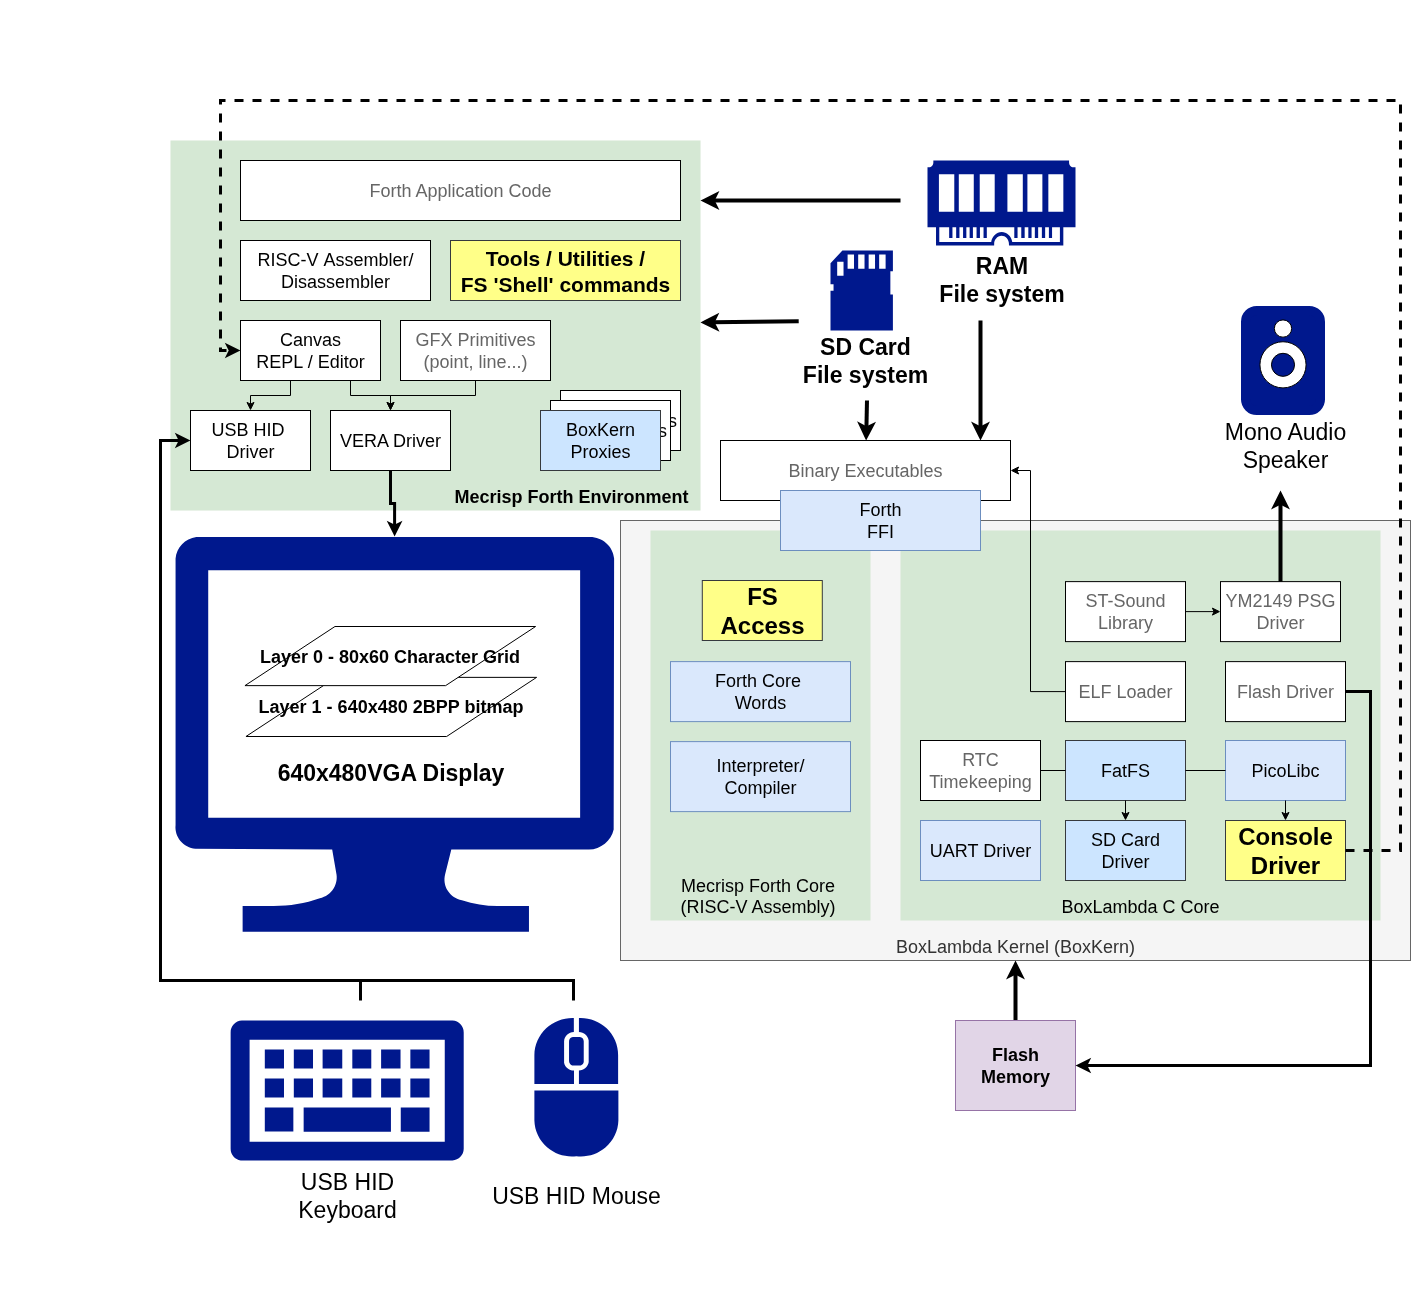
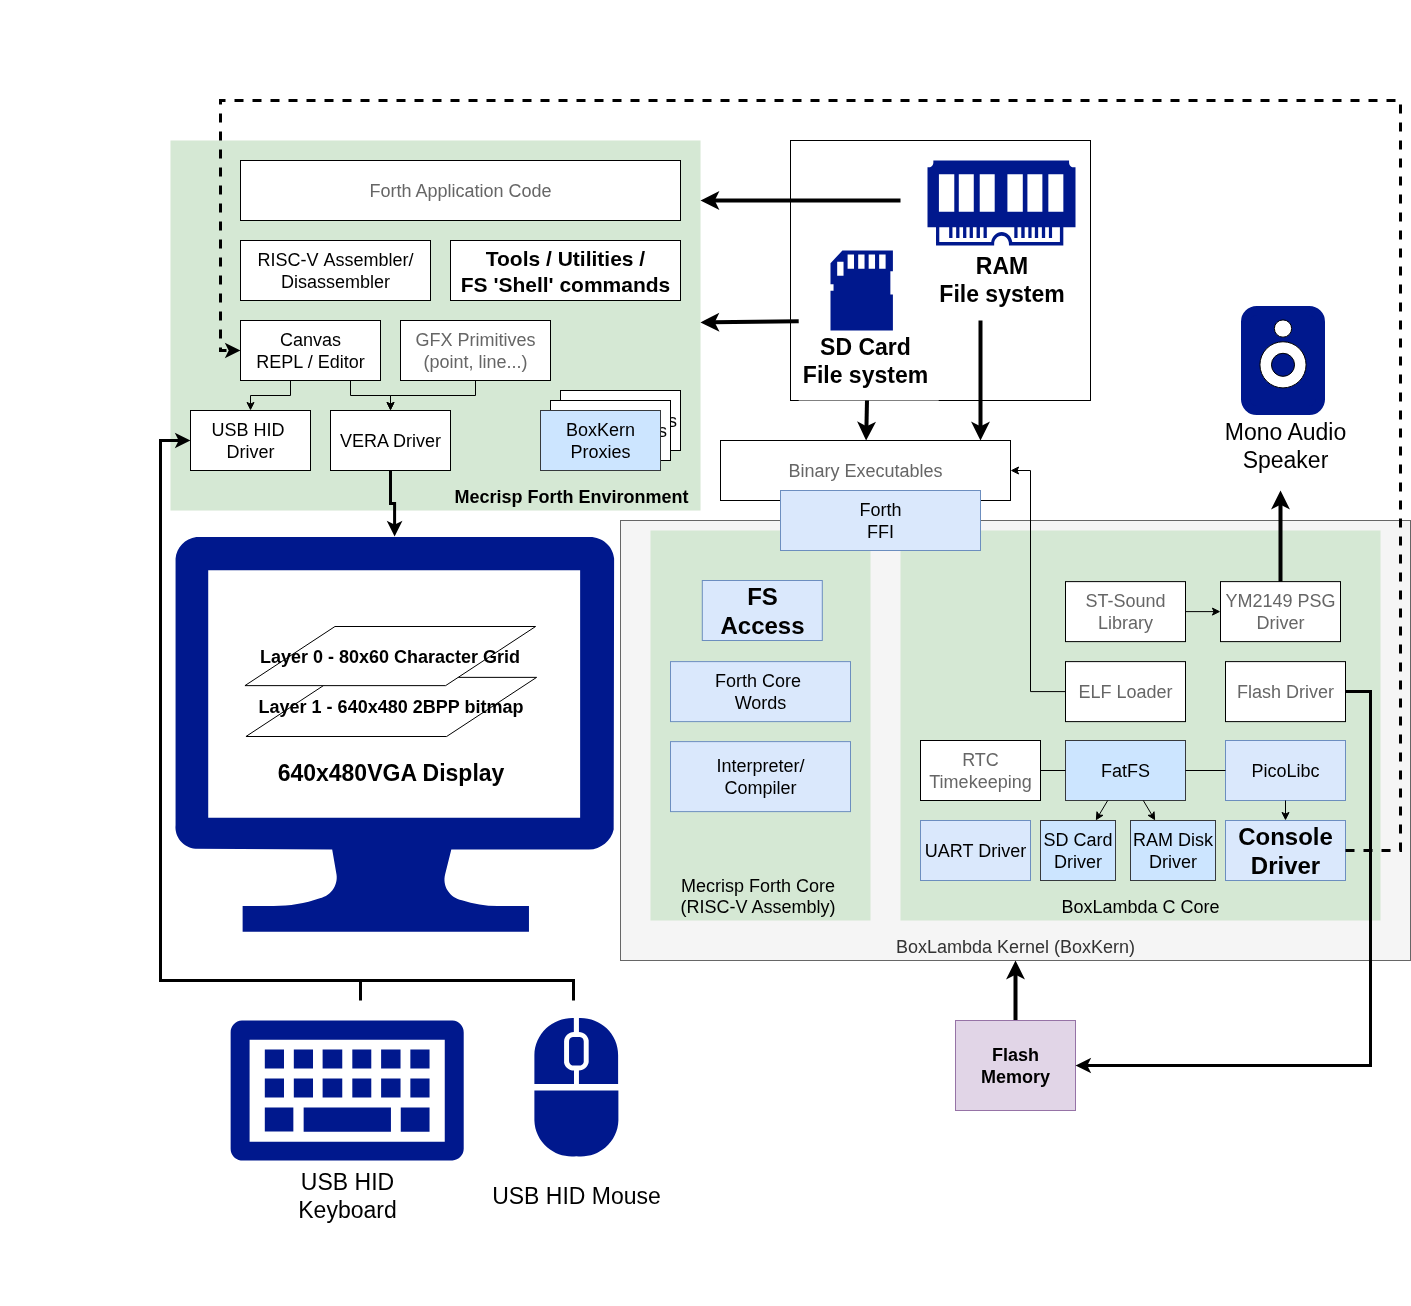
releasing v0.4.1

Changed region(s): [[0.6549, 0.6126, 0.9667, 0.6738], [0.3118, 0.1838, 0.4989, 0.245], [0.4989, 0.4288, 0.5925, 0.49]]

diff --git a/site_docs/registers/sdram.md b/site_docs/registers/sdram.md
@@ -4,35 +4,35 @@
 
 | Register                                                      | Address                                     |
 |---------------------------------------------------------------|---------------------------------------------|
-| [SDRAM_DFII_CONTROL](#sdram-dfii-control)                     | [0x00000800](#sdram-dfii-control)           |
-| [SDRAM_DFII_PI0_COMMAND](#sdram-dfii-pi0-command)             | [0x00000804](#sdram-dfii-pi0-command)       |
-| [SDRAM_DFII_PI0_COMMAND_ISSUE](#sdram-dfii-pi0-command-issue) | [0x00000808](#sdram-dfii-pi0-command-issue) |
-| [SDRAM_DFII_PI0_ADDRESS](#sdram-dfii-pi0-address)             | [0x0000080c](#sdram-dfii-pi0-address)       |
-| [SDRAM_DFII_PI0_BADDRESS](#sdram-dfii-pi0-baddress)           | [0x00000810](#sdram-dfii-pi0-baddress)      |
-| [SDRAM_DFII_PI0_WRDATA](#sdram-dfii-pi0-wrdata)               | [0x00000814](#sdram-dfii-pi0-wrdata)        |
-| [SDRAM_DFII_PI0_RDDATA](#sdram-dfii-pi0-rddata)               | [0x00000818](#sdram-dfii-pi0-rddata)        |
-| [SDRAM_DFII_PI1_COMMAND](#sdram-dfii-pi1-command)             | [0x0000081c](#sdram-dfii-pi1-command)       |
-| [SDRAM_DFII_PI1_COMMAND_ISSUE](#sdram-dfii-pi1-command-issue) | [0x00000820](#sdram-dfii-pi1-command-issue) |
-| [SDRAM_DFII_PI1_ADDRESS](#sdram-dfii-pi1-address)             | [0x00000824](#sdram-dfii-pi1-address)       |
-| [SDRAM_DFII_PI1_BADDRESS](#sdram-dfii-pi1-baddress)           | [0x00000828](#sdram-dfii-pi1-baddress)      |
-| [SDRAM_DFII_PI1_WRDATA](#sdram-dfii-pi1-wrdata)               | [0x0000082c](#sdram-dfii-pi1-wrdata)        |
-| [SDRAM_DFII_PI1_RDDATA](#sdram-dfii-pi1-rddata)               | [0x00000830](#sdram-dfii-pi1-rddata)        |
-| [SDRAM_DFII_PI2_COMMAND](#sdram-dfii-pi2-command)             | [0x00000834](#sdram-dfii-pi2-command)       |
-| [SDRAM_DFII_PI2_COMMAND_ISSUE](#sdram-dfii-pi2-command-issue) | [0x00000838](#sdram-dfii-pi2-command-issue) |
-| [SDRAM_DFII_PI2_ADDRESS](#sdram-dfii-pi2-address)             | [0x0000083c](#sdram-dfii-pi2-address)       |
-| [SDRAM_DFII_PI2_BADDRESS](#sdram-dfii-pi2-baddress)           | [0x00000840](#sdram-dfii-pi2-baddress)      |
-| [SDRAM_DFII_PI2_WRDATA](#sdram-dfii-pi2-wrdata)               | [0x00000844](#sdram-dfii-pi2-wrdata)        |
-| [SDRAM_DFII_PI2_RDDATA](#sdram-dfii-pi2-rddata)               | [0x00000848](#sdram-dfii-pi2-rddata)        |
-| [SDRAM_DFII_PI3_COMMAND](#sdram-dfii-pi3-command)             | [0x0000084c](#sdram-dfii-pi3-command)       |
-| [SDRAM_DFII_PI3_COMMAND_ISSUE](#sdram-dfii-pi3-command-issue) | [0x00000850](#sdram-dfii-pi3-command-issue) |
-| [SDRAM_DFII_PI3_ADDRESS](#sdram-dfii-pi3-address)             | [0x00000854](#sdram-dfii-pi3-address)       |
-| [SDRAM_DFII_PI3_BADDRESS](#sdram-dfii-pi3-baddress)           | [0x00000858](#sdram-dfii-pi3-baddress)      |
-| [SDRAM_DFII_PI3_WRDATA](#sdram-dfii-pi3-wrdata)               | [0x0000085c](#sdram-dfii-pi3-wrdata)        |
-| [SDRAM_DFII_PI3_RDDATA](#sdram-dfii-pi3-rddata)               | [0x00000860](#sdram-dfii-pi3-rddata)        |
+| [SDRAM_DFII_CONTROL](#sdram-dfii-control)                     | [0x00001000](#sdram-dfii-control)           |
+| [SDRAM_DFII_PI0_COMMAND](#sdram-dfii-pi0-command)             | [0x00001004](#sdram-dfii-pi0-command)       |
+| [SDRAM_DFII_PI0_COMMAND_ISSUE](#sdram-dfii-pi0-command-issue) | [0x00001008](#sdram-dfii-pi0-command-issue) |
+| [SDRAM_DFII_PI0_ADDRESS](#sdram-dfii-pi0-address)             | [0x0000100c](#sdram-dfii-pi0-address)       |
+| [SDRAM_DFII_PI0_BADDRESS](#sdram-dfii-pi0-baddress)           | [0x00001010](#sdram-dfii-pi0-baddress)      |
+| [SDRAM_DFII_PI0_WRDATA](#sdram-dfii-pi0-wrdata)               | [0x00001014](#sdram-dfii-pi0-wrdata)        |
+| [SDRAM_DFII_PI0_RDDATA](#sdram-dfii-pi0-rddata)               | [0x00001018](#sdram-dfii-pi0-rddata)        |
+| [SDRAM_DFII_PI1_COMMAND](#sdram-dfii-pi1-command)             | [0x0000101c](#sdram-dfii-pi1-command)       |
+| [SDRAM_DFII_PI1_COMMAND_ISSUE](#sdram-dfii-pi1-command-issue) | [0x00001020](#sdram-dfii-pi1-command-issue) |
+| [SDRAM_DFII_PI1_ADDRESS](#sdram-dfii-pi1-address)             | [0x00001024](#sdram-dfii-pi1-address)       |
+| [SDRAM_DFII_PI1_BADDRESS](#sdram-dfii-pi1-baddress)           | [0x00001028](#sdram-dfii-pi1-baddress)      |
+| [SDRAM_DFII_PI1_WRDATA](#sdram-dfii-pi1-wrdata)               | [0x0000102c](#sdram-dfii-pi1-wrdata)        |
+| [SDRAM_DFII_PI1_RDDATA](#sdram-dfii-pi1-rddata)               | [0x00001030](#sdram-dfii-pi1-rddata)        |
+| [SDRAM_DFII_PI2_COMMAND](#sdram-dfii-pi2-command)             | [0x00001034](#sdram-dfii-pi2-command)       |
+| [SDRAM_DFII_PI2_COMMAND_ISSUE](#sdram-dfii-pi2-command-issue) | [0x00001038](#sdram-dfii-pi2-command-issue) |
+| [SDRAM_DFII_PI2_ADDRESS](#sdram-dfii-pi2-address)             | [0x0000103c](#sdram-dfii-pi2-address)       |
+| [SDRAM_DFII_PI2_BADDRESS](#sdram-dfii-pi2-baddress)           | [0x00001040](#sdram-dfii-pi2-baddress)      |
+| [SDRAM_DFII_PI2_WRDATA](#sdram-dfii-pi2-wrdata)               | [0x00001044](#sdram-dfii-pi2-wrdata)        |
+| [SDRAM_DFII_PI2_RDDATA](#sdram-dfii-pi2-rddata)               | [0x00001048](#sdram-dfii-pi2-rddata)        |
+| [SDRAM_DFII_PI3_COMMAND](#sdram-dfii-pi3-command)             | [0x0000104c](#sdram-dfii-pi3-command)       |
+| [SDRAM_DFII_PI3_COMMAND_ISSUE](#sdram-dfii-pi3-command-issue) | [0x00001050](#sdram-dfii-pi3-command-issue) |
+| [SDRAM_DFII_PI3_ADDRESS](#sdram-dfii-pi3-address)             | [0x00001054](#sdram-dfii-pi3-address)       |
+| [SDRAM_DFII_PI3_BADDRESS](#sdram-dfii-pi3-baddress)           | [0x00001058](#sdram-dfii-pi3-baddress)      |
+| [SDRAM_DFII_PI3_WRDATA](#sdram-dfii-pi3-wrdata)               | [0x0000105c](#sdram-dfii-pi3-wrdata)        |
+| [SDRAM_DFII_PI3_RDDATA](#sdram-dfii-pi3-rddata)               | [0x00001060](#sdram-dfii-pi3-rddata)        |
 
 ### SDRAM_DFII_CONTROL
 
-Address: 0x00000800 + 0x0 = 0x00000800
+Address: 0x00001000 + 0x0 = 0x00001000
 
 > Control DFI signals common to all phases
 
@@ -45,7 +45,7 @@ Address: 0x00000800 + 0x0 = 0x00000800
 
 ### SDRAM_DFII_PI0_COMMAND
 
-Address: 0x00000800 + 0x4 = 0x00000804
+Address: 0x00001000 + 0x4 = 0x00001004
 
 > Control DFI signals on a single phase
 
@@ -62,35 +62,35 @@ Address: 0x00000800 + 0x4 = 0x00000804
 
 ### SDRAM_DFII_PI0_COMMAND_ISSUE
 
-Address: 0x00000800 + 0x8 = 0x00000808
+Address: 0x00001000 + 0x8 = 0x00001008
 
 ### SDRAM_DFII_PI0_ADDRESS
 
-Address: 0x00000800 + 0xc = 0x0000080c
+Address: 0x00001000 + 0xc = 0x0000100c
 
 > DFI address bus
 
 ### SDRAM_DFII_PI0_BADDRESS
 
-Address: 0x00000800 + 0x10 = 0x00000810
+Address: 0x00001000 + 0x10 = 0x00001010
 
 > DFI bank address bus
 
 ### SDRAM_DFII_PI0_WRDATA
 
-Address: 0x00000800 + 0x14 = 0x00000814
+Address: 0x00001000 + 0x14 = 0x00001014
 
 > DFI write data bus
 
 ### SDRAM_DFII_PI0_RDDATA
 
-Address: 0x00000800 + 0x18 = 0x00000818
+Address: 0x00001000 + 0x18 = 0x00001018
 
 > DFI read data bus
 
 ### SDRAM_DFII_PI1_COMMAND
 
-Address: 0x00000800 + 0x1c = 0x0000081c
+Address: 0x00001000 + 0x1c = 0x0000101c
 
 > Control DFI signals on a single phase
 
@@ -107,35 +107,35 @@ Address: 0x00000800 + 0x1c = 0x0000081c
 
 ### SDRAM_DFII_PI1_COMMAND_ISSUE
 
-Address: 0x00000800 + 0x20 = 0x00000820
+Address: 0x00001000 + 0x20 = 0x00001020
 
 ### SDRAM_DFII_PI1_ADDRESS
 
-Address: 0x00000800 + 0x24 = 0x00000824
+Address: 0x00001000 + 0x24 = 0x00001024
 
 > DFI address bus
 
 ### SDRAM_DFII_PI1_BADDRESS
 
-Address: 0x00000800 + 0x28 = 0x00000828
+Address: 0x00001000 + 0x28 = 0x00001028
 
 > DFI bank address bus
 
 ### SDRAM_DFII_PI1_WRDATA
 
-Address: 0x00000800 + 0x2c = 0x0000082c
+Address: 0x00001000 + 0x2c = 0x0000102c
 
 > DFI write data bus
 
 ### SDRAM_DFII_PI1_RDDATA
 
-Address: 0x00000800 + 0x30 = 0x00000830
+Address: 0x00001000 + 0x30 = 0x00001030
 
 > DFI read data bus
 
 ### SDRAM_DFII_PI2_COMMAND
 
-Address: 0x00000800 + 0x34 = 0x00000834
+Address: 0x00001000 + 0x34 = 0x00001034
 
 > Control DFI signals on a single phase
 
@@ -152,35 +152,35 @@ Address: 0x00000800 + 0x34 = 0x00000834
 
 ### SDRAM_DFII_PI2_COMMAND_ISSUE
 
-Address: 0x00000800 + 0x38 = 0x00000838
+Address: 0x00001000 + 0x38 = 0x00001038
 
 ### SDRAM_DFII_PI2_ADDRESS
 
-Address: 0x00000800 + 0x3c = 0x0000083c
+Address: 0x00001000 + 0x3c = 0x0000103c
 
 > DFI address bus
 
 ### SDRAM_DFII_PI2_BADDRESS
 
-Address: 0x00000800 + 0x40 = 0x00000840
+Address: 0x00001000 + 0x40 = 0x00001040
 
 > DFI bank address bus
 
 ### SDRAM_DFII_PI2_WRDATA
 
-Address: 0x00000800 + 0x44 = 0x00000844
+Address: 0x00001000 + 0x44 = 0x00001044
 
 > DFI write data bus
 
 ### SDRAM_DFII_PI2_RDDATA
 
-Address: 0x00000800 + 0x48 = 0x00000848
+Address: 0x00001000 + 0x48 = 0x00001048
 
 > DFI read data bus
 
 ### SDRAM_DFII_PI3_COMMAND
 
-Address: 0x00000800 + 0x4c = 0x0000084c
+Address: 0x00001000 + 0x4c = 0x0000104c
 
 > Control DFI signals on a single phase
 
@@ -197,28 +197,28 @@ Address: 0x00000800 + 0x4c = 0x0000084c
 
 ### SDRAM_DFII_PI3_COMMAND_ISSUE
 
-Address: 0x00000800 + 0x50 = 0x00000850
+Address: 0x00001000 + 0x50 = 0x00001050
 
 ### SDRAM_DFII_PI3_ADDRESS
 
-Address: 0x00000800 + 0x54 = 0x00000854
+Address: 0x00001000 + 0x54 = 0x00001054
 
 > DFI address bus
 
 ### SDRAM_DFII_PI3_BADDRESS
 
-Address: 0x00000800 + 0x58 = 0x00000858
+Address: 0x00001000 + 0x58 = 0x00001058
 
 > DFI bank address bus
 
 ### SDRAM_DFII_PI3_WRDATA
 
-Address: 0x00000800 + 0x5c = 0x0000085c
+Address: 0x00001000 + 0x5c = 0x0000105c
 
 > DFI write data bus
 
 ### SDRAM_DFII_PI3_RDDATA
 
-Address: 0x00000800 + 0x60 = 0x00000860
+Address: 0x00001000 + 0x60 = 0x00001060
 
 > DFI read data bus

diff --git a/site_docs/misc/blog.md b/site_docs/misc/blog.md
@@ -6,37 +6,22 @@ Ruby and Bundler are required to build the BoxLambda blog website. Install them 
 sudo apt-get install rubygems ruby-bundler
 ```
 
-Check out the `gh-pages` branch:
-```
-git checkout gh-pages
-```
-
-Source the `boxlambda_setup.sh` script to ensure that the gems needed to build Jekyll are installed:
-
-```
-source boxlambda_doc_env_setup.sh
-```
-
 Build the blog by executing the following command:
 
 ```
-make jekyll
+make_blog.sh
 ```
 
 Point your browser to [http://127.0.0.1:4000/boxlambda/](http://127.0.0.1:4000/boxlambda/) to see the Jekyll Blog website.
 
-When you're done, deactivate the documentation environment by running:
-
-```bash
-deactivate
-```
-
 ## Blog Release Protocol (Note to Self)
 
 0. [Release code and documentation](git-workflow.md#creating-a-new-release-note-to-self).
-1. Write draft in `boxlambda-gh-pages-wip` branch. Use labeled links to code and documentation.
-2. Check spelling and grammar.
-3. Move draft to `_posts`.
-4. Check for broken links using `lychee -i *.md` in the `_posts` directory.
-5. Merge to `gh-pages` and push.
+1. Write draft in `develop` branch, `jekyll/_drafts` directory. Use labeled links to code and documentation.
+2. Test site using `make_blog`.
+3. Check spelling and grammar.
+4. Move draft to `jekyll/_posts` and add date to filename.
+5. Check for broken links using `lychee -i *.md` in the `jekyll/_posts` directory.
+6. Ensure all changes in current branch are committed.
+7. Release by executing `export_blog.sh vX.Y.Z`.
 

diff --git a/CHANGELOG.md b/CHANGELOG.md
@@ -17,11 +17,10 @@ The format is based on [Keep a Changelog](https://keepachangelog.com/en/1.1.0/).
 
 ### Changed
 
-- Documentation: Updated diagrams used in README.md.
 - Generating GitHub `README.md`, ReadtheDocs `index.md` and Jekyll `about.md` from `README.md.j2` Jinja2 template.
 - Updated release protocol.
-- Moved jekyll site from `gh-pages/boxlambda-gh-pages-wip` to `master/develop` branch, `jekyll/` directory.
-- Minor updates to documentation diagrams.
+- Moved jekyll site from `gh-pages/boxlambda-gh-pages-wip` to `master/develop` branch, `blog/` directory.
+- Documentation: Minor updates to diagrams.
 
 ### Removed
 

diff --git a/site_docs/full-index.md b/site_docs/full-index.md
@@ -107,12 +107,12 @@ Complete structured overview of all documentation pages.
     - [Memory Layout](software/boxlambda-os/mem-layout.md)
     - [OS Top-Level and Boot Sequence](software/boxlambda-os/top-level-and-boot-seq.md)
     - [User Interface](software/boxlambda-os/ui.md)
-    - [Filesystem](software/boxlambda-os/filesystem.md)
+    - [File System](software/boxlambda-os/file-system.md)
     - **Forth**
       - [The Mecrisp Forth Core](software/boxlambda-os/forth/core.md)
       - [The Forth-C FFI](software/boxlambda-os/forth/c-ffi.md)
       - [Stack Notation](software/boxlambda-os/forth/stack-notation.md)
-      - [Forth Word List](software/boxlambda-os/forth/words.md)
+      - [Word List](software/boxlambda-os/forth/words.md)
       - [Interrupt Handling](software/boxlambda-os/forth/irqs.md)
       - [Exception Handling](software/boxlambda-os/forth/exception-handling.md)
       - [Interpreting](software/boxlambda-os/forth/interpreting.md)

diff --git a/site_docs/software/boxlambda-os/forth/include.md b/site_docs/software/boxlambda-os/forth/include.md
@@ -6,3 +6,7 @@ This diagram shows how the `include` Word works:
 [![Include File Evaluation.](../../../assets/include-file-evaluation.png)](../../../assets/include-file-evaluation.png)
 
 *Forth Include File Evaluation.*
+
+The above refers to the regular Forth `include` Word, defined in [shell.fs](). The BoxKern also provides a way
+to load and evaluate Forth modules from C code. This mechanism is discussed in section [The BoxKern-Includes Mechanism]().
+

diff --git a/docs/misc/git-workflow.md b/docs/misc/git-workflow.md
@@ -51,7 +51,7 @@ On `develop` branch:
 4. (Re)Populate `binaries/` by runing `export_binaries.sh` from the repo root directory.
 5. Flash `boxlambda_base` gateware project build and bootloader.
 6. Run the `boxkerntestfs` software test suite in `boxlambda_os` software project build directory.
-8. Run `export_docs.sh develop`.
+8. Run `export_docs.sh develop`. Check the output for errors.
 7. Check documentation links by running `lychee -i *.md` from the `site_docs/` directory.
 
 On `master` branch:

diff --git a/site_docs/misc/git-workflow.md b/site_docs/misc/git-workflow.md
@@ -51,7 +51,7 @@ On `develop` branch:
 4. (Re)Populate `binaries/` by runing `export_binaries.sh` from the repo root directory.
 5. Flash `boxlambda_base` gateware project build and bootloader.
 6. Run the `boxkerntestfs` software test suite in `boxlambda_os` software project build directory.
-8. Run `export_docs.sh develop`.
+8. Run `export_docs.sh develop`. Check the output for errors.
 7. Check documentation links by running `lychee -i *.md` from the `site_docs/` directory.
 
 On `master` branch:

diff --git a/site_docs/software/boxlambda-os/forth/words.md b/site_docs/software/boxlambda-os/forth/words.md
@@ -1800,7 +1800,7 @@ Exceptions:
 x-string-too-long
 ```
 
-## Filesystem
+## File system
 
 [fs.fs](https://github.com/epsilon537/boxlambda/blob/develop/fs/forth/fs.fs)
 

diff --git a/site_docs/software/boxlambda-os/top-level-and-boot-seq.md b/site_docs/software/boxlambda-os/top-level-and-boot-seq.md
@@ -26,7 +26,7 @@ After the Bootloader has transferred control to the OS image it has loaded into 
 
 ## The BoxKern-Includes Mechanism
 
-[fs/forth/boxkern-includes.fs](https://github.com/epsilon537/boxlambda/blob/develop/fs/forth/boxkern-includes.fs) may look like a Forth module but it not.
+[fs/forth/boxkern-includes.fs](https://github.com/epsilon537/boxlambda/blob/develop/fs/forth/boxkern-includes.fs) may look like a Forth module but it's not.
 
 The syntax is limited to lines starting with `\`, which are ignored, and lines beginning with the word `boxkern_include` followed by the full path of an `.fs` Forth module to be evaluated. These Forth modules must not include any submodules themselves.
 

diff --git a/site_docs/registers/index.md b/site_docs/registers/index.md
@@ -7,6 +7,7 @@
 # Register Groups
 
 * [DDRCTRL](ddrctrl.md)
+* [DDRPHY](ddrphy.md)
 * [SDRAM](sdram.md)
 
 # Indices and tables